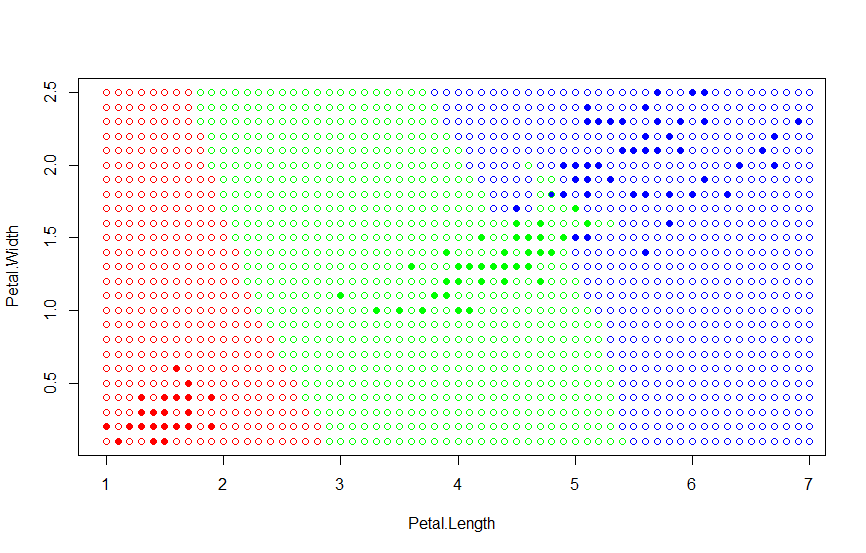
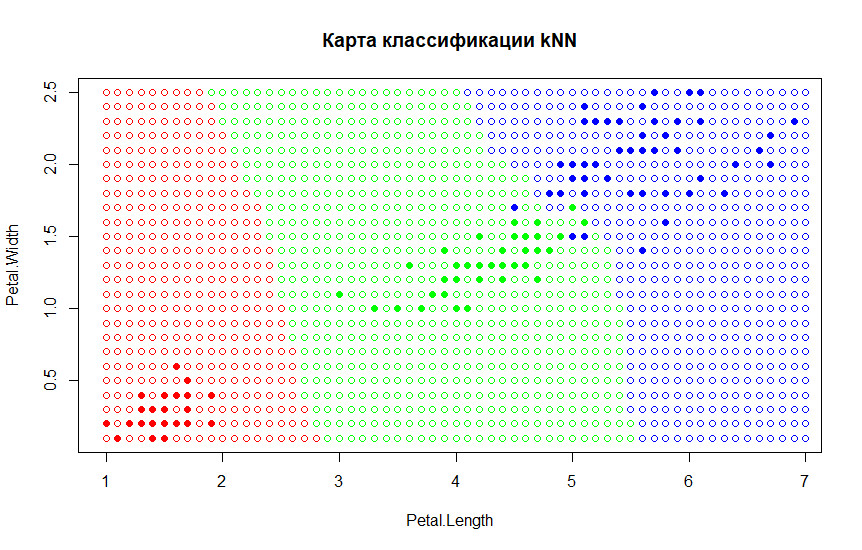
Updated knn readme, refactored knn code

diff --git a/lab1/README.md b/lab1/README.md
@@ -2,9 +2,10 @@
 ## Алгоритм kNN
 **Алгоритм kNN** - метрический алгоритм классификации, основанный на оценивании сходства объектов. Классифицируемый объект относится к тому классу, которому принадлежат ближайшие к нему объекты обучающей выборки.
 
-### Формула алгоритма kNN выглядит следующим образом
+### Формула алгоритма kNN выглядит следующим образом:
 ![Формула](knntex.png)\
-где *k* - параметр
+где **y<sup>i</sup>** отсортированы по расстоянию относительно классифицируемого объекта,\
+а **k** -- параметр, который определяет, сколько объектов будет использованно для классификации
 
 ### Реализация алгоритма на языке R
 ```r
@@ -44,11 +45,11 @@ knn <- function(dat, p, k = c(6)) {
 
 ### Формула алгоритма kNN выглядит следующим образом
 ![Формула](kwnntex.png)\
-где **w(i) = q^i** - геометрическая прогрессия с параметром q
+где **w(i)** -- функция веса, которая показывает насколько сильно *i*-ый объект влияет на пренадлежность классифицируемого объекта к классу *u*; функция представляет собой геометрическую прогрессию с параметром *q* из диапозона *[0; 1]* (например: **w(i) = q^i**).
 
 ### Реализация алгоритма на языке R
 ```r
-kwnn <- function(dat, p, k=6, q = c(0.8)) {
+kwnn <- function(dat, p, k=c(6), q = c(0.8)) {
   # calculate distances to each node in data
   dists <- vector("list", length(dat[[1]]))
   for (i in 1:length(dat[[1]])) {
@@ -60,27 +61,36 @@ kwnn <- function(dat, p, k=6, q = c(0.8)) {
   # sort data by distance
   dat <- dat[order(dat$Distance),]
   
-  res <- list()
-  # take first k values from data
-  datK <- head(dat, k)
-  
-  freq <- as.list(rep(0, length(levels(dat$Species))))
-  names(freq) = levels(dat$Species)
-  
-  for (j in seq(length(q))) {
-    for (l in seq(k)) {
-      e <- datK[l,]
-      freq[[e$Species]] <- freq[[e$Species]] + q[j] ^ l
+  lk <- length(k)
+  lq <- length(q)
+  # result matrix with k values as rows
+  # and q values as columns
+  # matrix values are classification result 
+  res <- array(0, c(lq, lk))
+  for (iq in seq(lq)) {
+    w <- q[iq]
+    
+    for (ik in seq(lk)) {
+      kv <- k[ik]
+      # how much p is close to each class
+      freq <- as.list(rep(0, length(levels(dat$Species))))
+      names(freq) = levels(dat$Species)
+      
+      for (j in seq(kv)) {
+        e <- dat[j,]
+        freq[[e$Species]] <- freq[[e$Species]] + w ^ j
+      }
+
+      res[iq, ik] <- names(sort(unlist(freq), decreasing = TRUE))[1]
     }
-    # most occuring group  
-    res[j] <- names(sort(unlist(freq), decreasing = TRUE))[1]
   }
   
-  return (unlist(res))
+  return (res)
 }
 ```
-### Выберем оптимальноё *q*, воспользовавшись критерием скользящего контроля LOO
+### Выберем оптимальные *q* и *k*, воспользовавшись критерием скользящего контроля LOO
+Так как *k* является целым числом, а *q* находится в диапозоне [0; 1], то будем использовать *q+k* по одной из осей.
 ![График LOO(q)](LOOfromq.png)
-#### Таким образом оптимальное k=0.8
-## Карта классификации kNN
-![Карта классификации kNN](kwnn608map.png)
+#### Таким образом оптимальное *k*=6, а *q*=1
+## Карта классификации kwNN
+![Карта классификации kwNN](kwnn608map.png)
